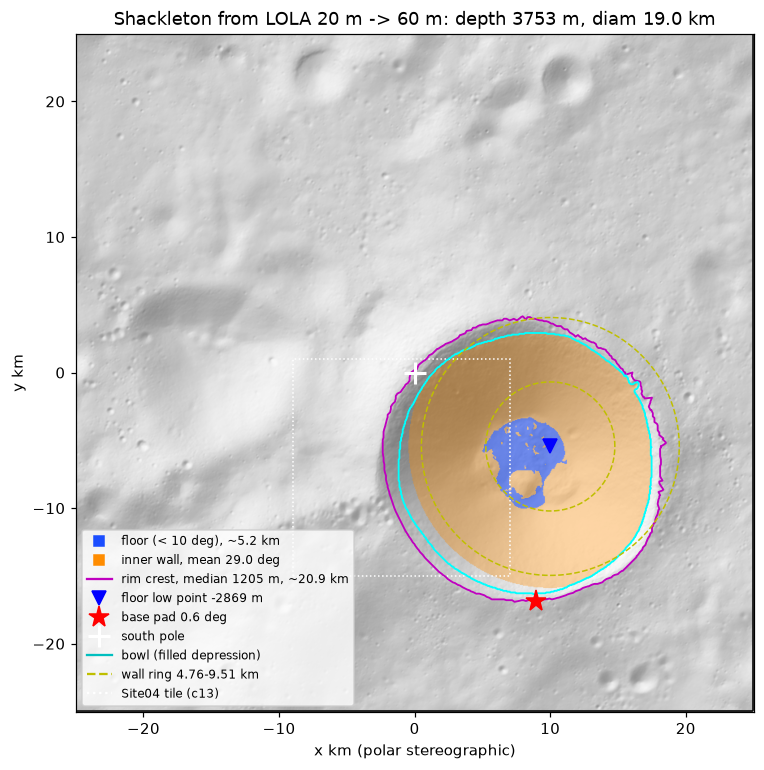
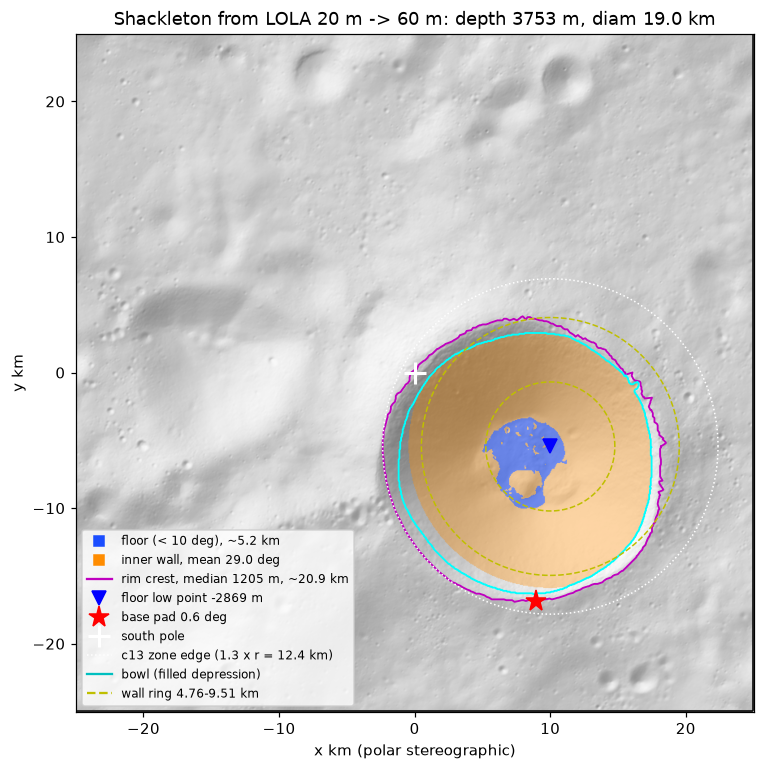
Bowl filter, zones relative to the bowl, c13 over bowl + rim, decisions in CLAUDE.md
- require_depression: true; elongation check (longest axis / equivalent diameter <= 2)
- c9 = rim-to-floor depth (display only, weight 0); c14 display only
- c11 ring 0.5-1.0 x r; c10 pad <= 1 km outside the bowl edge
- c13 roughness over bowl + 1.3 x r, same zone on Earth and Moon (Moon 24.5 m from LOLA 20 m)
- criteria doc: LOLA values for rows 8-11, 13; c14 note; 60 m limitation for small craters
- CLAUDE.md: decisions of 14 Nov, Meteor Crater as sanity/tuning site

Changed region(s): [[0.1204, 0.8416, 0.4215, 0.9039]]

diff --git a/src/compute_lunar_target.py b/src/compute_lunar_target.py
@@ -5,8 +5,8 @@ into config/lunar_targets.json, plus a preview figure.
     python src/compute_lunar_target.py       # -> config/lunar_targets.json, figures/shackleton_target.png
 
 Sources per criterion:
-    c7, c9, c10, c11, c14  LDEM_80S_20MPP_ADJ (window)  - they need the whole crater
-    c13                    Site04 5 m tile (Shackleton rim) - roughness over one ~15 km cell
+    all criteria           LDEM_80S_20MPP_ADJ (window) - they need the whole crater
+    (c13 came from the Site04 5 m tile until 14 Nov; now bowl + rim ring, same zone as on Earth)
 Both resampled to the common 60 m grid (config grid.res_m / resampling) with dem.grid.reproject_dem.
 
 The crater is found from the data, not from known coordinates: the qualifying closed depression
@@ -32,7 +32,6 @@ from pipeline.polar import _Cell, find_depressions  # noqa: E402
 
 ROOT = Path(__file__).resolve().parents[1]
 WINDOW = ROOT / "data" / "moon" / "shackleton_20m_window.tif"
-SITE04 = ROOT / "data" / "moon" / "Site04_final_adj_5mpp_surf.tif"
 FIG = ROOT / "figures" / "shackleton_target.png"
 SEARCH_KM = 15
 # pipeline definitions (same text the Earth side uses), refreshed on every run
@@ -41,7 +40,9 @@ DEFINITIONS = {
                   "median over 1-deg azimuth sectors of the highest elevation within rim_search_rel x bowl radius "
                   "of the low point, minus the low point; no bowl -> 0"},
     "c10_flat_base": {"definition": "mean slope of the flattest ~200 m pad (3x3 px at 60 m) outside the bowl whose "
-                                    "centre is within max_base_to_bowl_km of the bowl edge"},
+                                    "centre is at most max_base_to_bowl_km outside the bowl edge"},
+    "c13_roughness": {"definition": "median std of elevation in 3x3 px windows over the bowl + rim ring (bowl "
+                                    "plus everything within rim_search_rel x r of the low point)"},
     "c11_walls": {"definition": "mean slope in a ring of wall_ring_rel x r around the low point, r = equivalent "
                                 "radius of the filled depression (inner walls only)"},
     "c14_aspect": {"definition": "share of steep pixels (> 20 deg) within the wall ring's outer radius facing the "
@@ -49,7 +50,6 @@ DEFINITIONS = {
 }
 SRC_WINDOW = ("LOLA LDEM_80S_20MPP_ADJ.TIF (Barker et al. 2023, PGDA product 90), "
               "+-25 km window around the pole read via /vsicurl/")
-SRC_SITE04 = "LOLA 5 m site DEM Site04 'Shackleton rim' (Barker et al. 2021, PGDA LOLA_5mpp)"
 
 
 def load_grid(path, cfg):
@@ -95,11 +95,6 @@ def main():
     # 3. display zones from the data: floor, walls, rim crest (not used in scoring)
     zones = crater_zones(mg, X, Y, dep, low, cell.t.slope_deg)
 
-    # 4. c13 from Site04 (one ~15 km cell on the rim)
-    mg4 = load_grid(SITE04, cfg)
-    all4 = np.ones(mg4.dem.shape, bool)
-    r4 = _Cell(mg4, all4, all4, lat, cfg).t.roughness_m
-    c13 = float(np.median(r4[np.isfinite(r4)]))
 
     today = date.today().isoformat()
     grid_note = f"bilinear to {cfg['grid']['res_m']} m (dem.grid.reproject_dem)"
@@ -114,19 +109,20 @@ def main():
                       "median over 1-deg azimuth sectors of the highest elevation, minus the low point "
                       "(size-dependent: large tolerance)"),
         "c10_flat_base": (place["c10_flat_base"], win_dem,
-                          f"rim: outside the bowl, pad centre within {p['max_base_to_bowl_km']:g} km of the bowl edge",
+                          f"rim: outside the bowl, pad centre at most {p['max_base_to_bowl_km']:g} km outside the bowl edge",
                           "minimum over 3x3 px (180 m) pads of the mean slope"),
         "c11_walls": (place["c11_walls"], win_dem,
                       f"inner wall: ring {ring} around the low point (= {p['wall_ring_rel'][0]}-"
                       f"{p['wall_ring_rel'][1]} x bowl radius, r = equivalent radius of the filled depression)",
                       "mean slope"),
-        "c13_roughness": (c13, f"data/moon/Site04_final_adj_5mpp_surf.tif, {grid_note}",
-                          "whole Site04 tile, 16 x 16 km: west rim, inner wall, plateau",
+        "c13_roughness": (place["c13_roughness"], win_dem,
+                          f"bowl + rim ring: the bowl plus everything within {p['rim_search_rel']:g} x bowl radius "
+                          "of the low point (same zone as on Earth)",
                           "median of the 3x3 px elevation std"),
         "c14_aspect": (place["c14_aspect"], win_dem,
                        f"within {place['wall_ring_km'][1]} km (ring outer radius) of the low point",
                        "share of pixels steeper than 20 deg whose downslope direction is within +-45 deg of the pole "
-                       "direction (pixels right at the pole have no meaningful direction; few)"),
+                       "direction. DISPLAY ONLY (weight 0, 14 Nov): Shackleton sits practically on the pole, so 'toward the pole' is a different direction for each part of the wall; not comparable with Earth"),
     }
 
     t = json.loads(Path(TARGETS_PATH).read_text(encoding="utf-8"))
@@ -141,7 +137,7 @@ def main():
         c = pol["criteria"][name]
         for k in ("why_not_verified", "note", "how", "computed"):
             c.pop(k, None)
-        src = SRC_SITE04 if name == "c13_roughness" else SRC_WINDOW
+        src = SRC_WINDOW
         c.update(value=None if v is None else round(float(v), 4), source=src, dem=dem, zone=zone, stat=stat,
                  date=today, verified=v is not None)
         c.update(DEFINITIONS.get(name, {}))
@@ -222,10 +218,10 @@ def figure(mg, X, Y, dep, place, low, base, zones):
     ax.plot(lx, ly, "bv", ms=9, label=f"floor low point {place['low_elev_m']:.0f} m")
     ax.plot(X[base] / 1e3, Y[base] / 1e3, "r*", ms=14, label=f"base pad {place['c10_flat_base']:.1f} deg")
     ax.plot(0, 0, "w+", ms=14, mew=2, label="south pole")
-    ax.add_patch(plt.Rectangle((-9, -15), 16, 16, fill=False, ec="w", ls=":", lw=1))
+    r13 = 1.3 * place["c7_width_m"] / 2 / 1e3
+    ax.plot(lx + r13 * np.cos(th), ly + r13 * np.sin(th), "w:", lw=1, label=f"c13 zone edge (1.3 x r = {r13:.1f} km)")
     ax.plot([], [], "c-", label="bowl (filled depression)")
     ax.plot([], [], "y--", label=f"wall ring {place['wall_ring_km'][0]}-{place['wall_ring_km'][1]} km")
-    ax.plot([], [], "w:", label="Site04 tile (c13)")
     ax.set(xlabel="x km (polar stereographic)", ylabel="y km",
            title=f"Shackleton from LOLA 20 m -> 60 m: depth {place['c7_depth_m']:.0f} m, "
                  f"diam {place['c7_width_m'] / 1e3:.1f} km")

diff --git a/src/pipeline/polar.py b/src/pipeline/polar.py
@@ -13,7 +13,7 @@ spot near it.
    = outside the bowl, centre within max_base_to_bowl_km of the bowl's edge (fallback without a
    bowl: within max_base_to_low_km of the low point; rejected if > max_base_slope_deg), 11 mean
    slope in a ring of wall_ring_rel x bowl radius around the low point (fallback: wall_ring_m),
-   14 pole-facing share of the steep pixels within the ring's outer radius. 13 is cell-wide.
+   13 roughness over the bowl + rim ring (within rim_search_rel x r), 14 pole-facing share (display only).
 4. The best candidate (highest weighted score) is the cell's result. In run_pipeline, rank
    scores are computed across ALL candidates of the run before choosing (select_best).
 
@@ -31,7 +31,7 @@ from dem.terrain import compute_terrain
 from pipeline.scoring import apply_rank, score_direct, weighted_score
 
 CRITERIA = ("c7_bowl", "c9_relief", "c10_flat_base", "c11_walls", "c13_roughness", "c14_aspect")
-PLACE_CRITERIA = ("c7_bowl", "c9_relief", "c10_flat_base", "c11_walls", "c14_aspect")
+PLACE_CRITERIA = CRITERIA                          # all criteria are per place (13 too, since 14 Nov)
 
 
 def _f(v):
@@ -186,6 +186,13 @@ class _Cell:
             r_in, r_out = (f * r_eq for f in p["wall_ring_rel"])
         else:
             r_in, r_out = p["wall_ring_m"]
+        # 13: roughness over the same zone on Earth and Moon: bowl + rim ring = the bowl plus everything
+        # within rim_search_rel x r of the low point (the zone criterion 9 searches for the rim crest).
+        # No bowl (only with require_depression: false): the whole cell.
+        z13 = (dep["mask"] | (d <= p["rim_search_rel"] * r_eq)) if dep else self.in_cell
+        rough = t.roughness_m[z13]
+        rough = rough[np.isfinite(rough)]
+        raw["c13_roughness"] = _f(np.median(rough)) if rough.size else None
         ring = (d >= r_in) & (d <= r_out)
         s = t.slope_deg[ring]
         full_px = np.pi * (r_out ** 2 - r_in ** 2) / res ** 2
@@ -241,13 +248,7 @@ def polar_candidates(mg, in_cell: np.ndarray, usable: np.ndarray | None, lat: fl
     cell = _Cell(mg, in_cell, usable, lat, cfg)
     deps = find_depressions(mg.dem, in_cell, mg.res_m, p)
 
-    rough = cell.t.roughness_m[in_cell]
-    rough = rough[np.isfinite(rough)]
-    c13 = _f(np.median(rough)) if rough.size else None
-    s13 = score_direct(c13, p["criteria"]["c13_roughness"])
-    info = {"keep": True, "reason": "", "n_depressions": len(deps),
-            "c13_roughness": None if c13 is None else round(c13, 4),
-            "s_c13_roughness": None if s13 is None else round(s13, 4)}
+    info = {"keep": True, "reason": "", "n_depressions": len(deps)}
 
     if deps:
         cands = [cell.place(dp["low"], dp) for dp in deps]
@@ -259,12 +260,9 @@ def polar_candidates(mg, in_cell: np.ndarray, usable: np.ndarray | None, lat: fl
         zc = np.where(in_cell & np.isfinite(mg.dem), mg.dem, np.inf)
         low = np.unravel_index(np.argmin(zc), zc.shape)
         cands = [cell.place((int(low[0]), int(low[1])), None)]
-    for c in cands:
-        c["c13_roughness"], c["s_c13_roughness"] = info["c13_roughness"], info["s_c13_roughness"]
     if not any(c["keep"] for c in cands):
         info.update(keep=False, reason=cands[0]["reason"] if len(cands) == 1
-                    else f"none of {len(cands)} depressions has a flat usable base within "
-                         f"{p['max_base_to_low_km']:g} km")
+                    else f"none of {len(cands)} depressions has a valid base pad ({cands[0]['reason']}, ...)")
     return info, cands
 
 

diff --git a/tests/test_polar.py b/tests/test_polar.py
@@ -234,14 +234,23 @@ def test_depression_crossing_cell_edge_counted_once_by_its_low_point():
 
 
 def test_base_spot_must_be_within_max_distance_of_bowl_edge():
-    z = _bowl_at(0, 0, 3000, 1000)                     # bowl edge at 3 km
+    z = _bowl_at(0, 0, 3000, 1000)                     # bowl edge at 3 km; limit max_base_to_bowl_km = 1
+    assert CFG["polar"]["max_base_to_bowl_km"] == 1
     usable = np.zeros((N, N), bool)
-    usable[195:205, 200 + 145:200 + 155] = True        # plain 8.7-9.3 km east = 5.7-6.3 km from the edge: too far
+    usable[195:205, 200 + 70:200 + 80] = True          # plain 4.2-4.8 km east = 1.2-1.8 km from the edge: too far
     r = evaluate_polar_cell(_grid(z), _cell_mask(), usable, 28.5, CFG)
     assert not r["keep"] and r["reason"].startswith("no usable base pad on the rim")
-    usable[195:205, 200 + 110:200 + 120] = True        # 6.6-7.2 km east = 3.6-4.2 km from the edge: allowed
+    usable[195:205, 200 + 53:200 + 63] = True          # 3.2-3.8 km east = 0.2-0.8 km from the edge: allowed
     r = evaluate_polar_cell(_grid(z), _cell_mask(), usable, 28.5, CFG)
-    assert r["keep"] and 3.5 <= r["base_to_bowl_km"] <= 5 and r["c10_flat_base"] == pytest.approx(0, abs=0.05)
+    assert r["keep"] and 0 < r["base_to_bowl_km"] <= 1 and r["c10_flat_base"] == pytest.approx(0, abs=0.05)
+
+
+def test_c13_roughness_is_bowl_plus_rim_ring_not_whole_cell():
+    x, y = _xy()
+    rough_far = np.where(np.abs(x) > 6000, 30 * np.sin(x / 90.0) * np.sin(y / 90.0), 0.0)   # rough terrain far away
+    r_smooth = evaluate_polar_cell(_grid(_bowl()), _cell_mask(), None, 28.5, CFG_RANK)
+    r_far = evaluate_polar_cell(_grid(_bowl() + rough_far), _cell_mask(), None, 28.5, CFG_RANK)
+    assert r_far["c13_roughness"] == pytest.approx(r_smooth["c13_roughness"], abs=0.5)   # outside 1.3 r: ignored
 
 
 def test_no_bowl_fallback_keeps_fixed_ring_and_low_point_radius():

diff --git a/docs/Moon Analog Criteria and Datasets.md b/docs/Moon Analog Criteria and Datasets.md
@@ -45,11 +45,11 @@ The "Base type" column says which lunar base a criterion matters for; "Any" appl
 | 7 | Bowl shape | Polar | closed, deep crater | closed depression; depth to width ratio | DEM | Core |
 | 8 | Crater size match | Polar | Shackleton rim crest 20.9 km wide, rim to floor 4073 m (LOLA LDEM\_80S\_20MPP\_ADJ, resampled to 60 m, measured 14 Nov 2026)¹ | diameter and depth vs. target crater | DEM | Secondary |
 | 9 | Rim-to-floor depth | Any | Shackleton 4073 m (LOLA, 14 Nov 2026)¹; low relief on mare | rim-to-floor depth of the bowl: median rim crest elevation minus the floor low point (changed 14 Nov 2026 from "max minus min within \~5 km", which did not reach Shackleton's rim and was scale-dependent). Size-dependent, so display only (weight 0) | DEM | Core |
-| 10 | Flat base spot | Any | landing and building | slope at the candidate cell (low is good) | DEM | Core |
+| 10 | Flat base spot | Any | landing and building; Shackleton 0.6° on the south rim (LOLA, 14 Nov 2026)¹ | mean slope of the flattest ~200 m pad whose centre lies outside the bowl and at most 1 km from its edge (low is good; same rule on Earth and Moon since 14 Nov 2026) | DEM | Core |
 | 11 | Steep walls | Polar | Shackleton inner wall mean slope 29.0° (LOLA LDEM\_80S\_20MPP\_ADJ at 60 m, measured 14 Nov 2026)¹ | mean slope of walls around the low point (high is good) | DEM | Core |
 | 12 | Drivable share | Any | rover routes around the base | share of cells within \~5 km under 15–20° | DEM | Secondary |
-| 13 | Roughness | Any | traverse difficulty | spread of elevation in a moving window | DEM | Core |
-| 14 | Aspect | Polar | pole-facing slopes hold shadow | share of steep terrain facing the nearer pole | DEM | Core |
+| 13 | Roughness | Any | traverse difficulty; Shackleton 24.5 m (LOLA, 14 Nov 2026)¹ | spread of elevation in a moving window (3×3 px at 60 m), median over the bowl + rim ring: the bowl plus everything within 1.3 × its equivalent radius of the low point. Same zone on Earth and Moon (changed 14 Nov 2026 from the whole cell) | DEM | Core |
+| 14 | Aspect | Polar | pole-facing slopes hold shadow | share of steep terrain facing the nearer pole. **Display only (weight 0) since 14 Nov 2026**: Shackleton sits practically on the pole, so "toward the pole" is a different direction for each part of its wall and the lunar value is not comparable with Earth. Shadow is measured directly by the light criteria 1–5 | DEM | Core |
 |  | **Environment** |  |  |  |  |  |
 | 15 | Cold | Polar | shadowed floors at 25–70 K | annual minimum and mean land surface temperature | MODIS LST | Secondary |
 | 16 | Day–night swing | Mare | near 400 K at noon, under 100 K at night at the equator | daytime minus night-time land surface temperature | MODIS LST | Core |
@@ -133,6 +133,7 @@ Traps we found while checking the data:
 - **Temperature scale.** MODIS at 1 km describes the region, not one shadowed hollow. Score "cold" as climate and let the shadow simulation carry the local effect.
 - **Coverage gaps.** Travel time stops at 60°S, the permafrost map is Northern Hemisphere only, and CHIRPS stops at 50° latitude. Polar candidates lose some criteria; show them as "no data", not zero.
 - **Caves have no global map.** Criterion 25 is a hand check on shortlisted basalt fields.
+- **Small craters at 60 m (known limitation, found 14 Nov 2026).** A bowl only ~1 km wide is ~19 pixels across on the common grid, so its walls are smoothed and criterion 11 comes out too low (Meteor Crater: 23.9° on the 0.5–1.0 × r ring). Bowls near the size limit (1 km equivalent diameter) can also drop out of the bowl filter. Treat wall slope of small bowls as a lower bound.
 
 ## Open decisions
 

diff --git a/CLAUDE.md b/CLAUDE.md
@@ -40,6 +40,12 @@ Full list and caveats: `docs/Moon_Analog_Criteria_and_Datasets.md`.
 | 14 Nov 2026 | Version 1 = Polar, terrain criteria 7, 9, 10, 11, 13, 14 first | all come from the DEM we already load |
 | 14 Nov 2026 | Compare Earth and Moon on one common metric grid (60 m, local UTM) | slope and roughness depend on resolution and projection |
 | 14 Nov 2026 | Missing data shows as "no data", never 0 | some datasets don't cover the poles |
+| 14 Nov 2026 | Polar lunar target = Shackleton, computed by `src/compute_lunar_target.py` from LOLA `LDEM_80S_20MPP_ADJ` (20 m → 60 m) with the same code as the Earth cells | same definitions on both sides; crater found from the data |
+| 14 Nov 2026 | Similarity rule: score = exp(−((earth − moon) / tolerance)²), tolerance per criterion in `pipeline.yaml` (team choice); criteria without a verified lunar value keep rank scoring | scores comparable across runs; no spread from the run's cells |
+| 14 Nov 2026 | Compare by shape, not size: c7 depth/width, c10 base slope, c11 inner-wall slope, c13 roughness are scored; c9 rim-to-floor depth is display only (weight 0) | Shackleton (≈21 km) is far bigger than Earth bowls |
+| 14 Nov 2026 | Zones relative to the bowl (r = equivalent radius of the filled depression): c11 ring 0.5–1.0 × r; c13 over bowl + 1.3 × r; c10 pad outside the bowl, centre ≤ 1 km from its edge | fixed km windows missed Shackleton's walls and rim |
+| 14 Nov 2026 | c14 aspect display only (weight 0) | at Shackleton "toward the pole" is no fixed direction; shadow comes from light criteria 1–5 |
+| 14 Nov 2026 | Bowl filter: require a closed depression ≥ 50 m deep, ≥ 1 km wide, elongation (longest axis / equivalent diameter) ≤ 2 | bowl-less cells and valleys outranked real bowls (Mustang run) |
 
 ## Who does what
 - Caspar: data pipeline (DEM, filters, terrain scoring)
